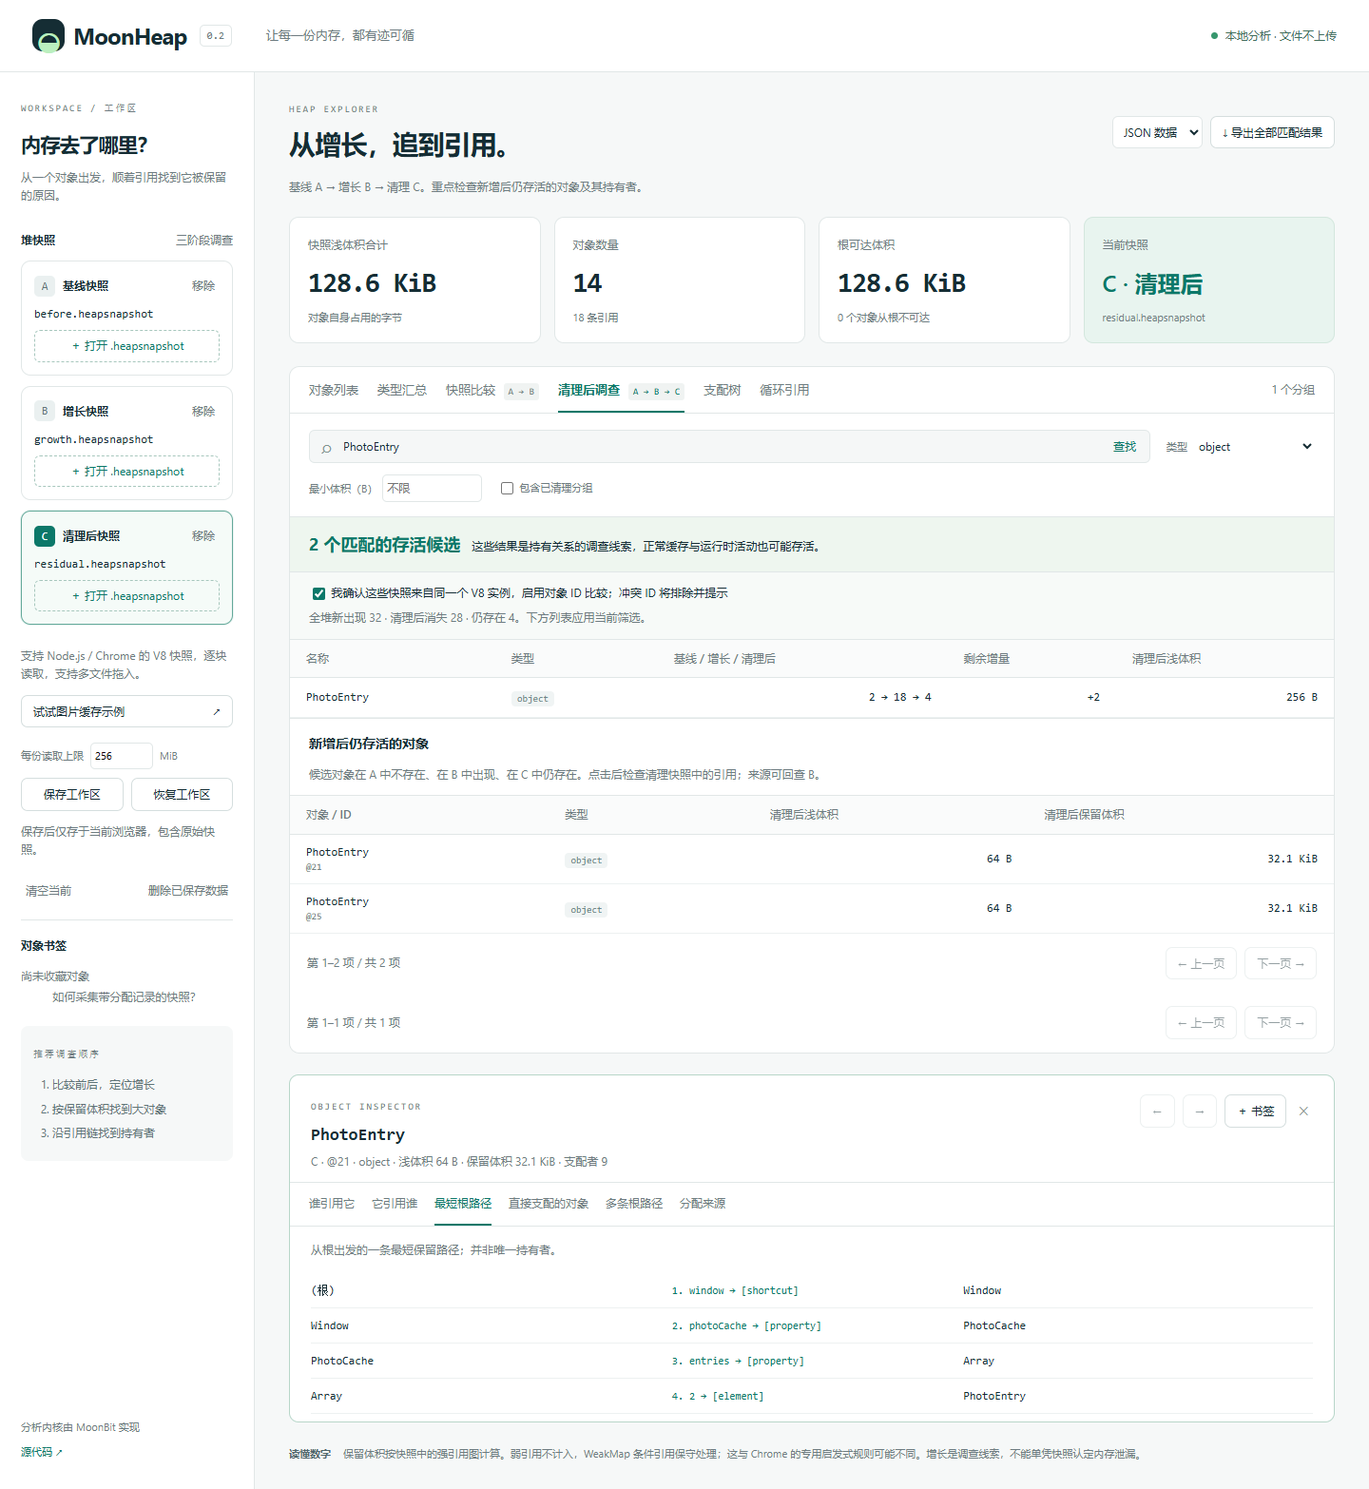
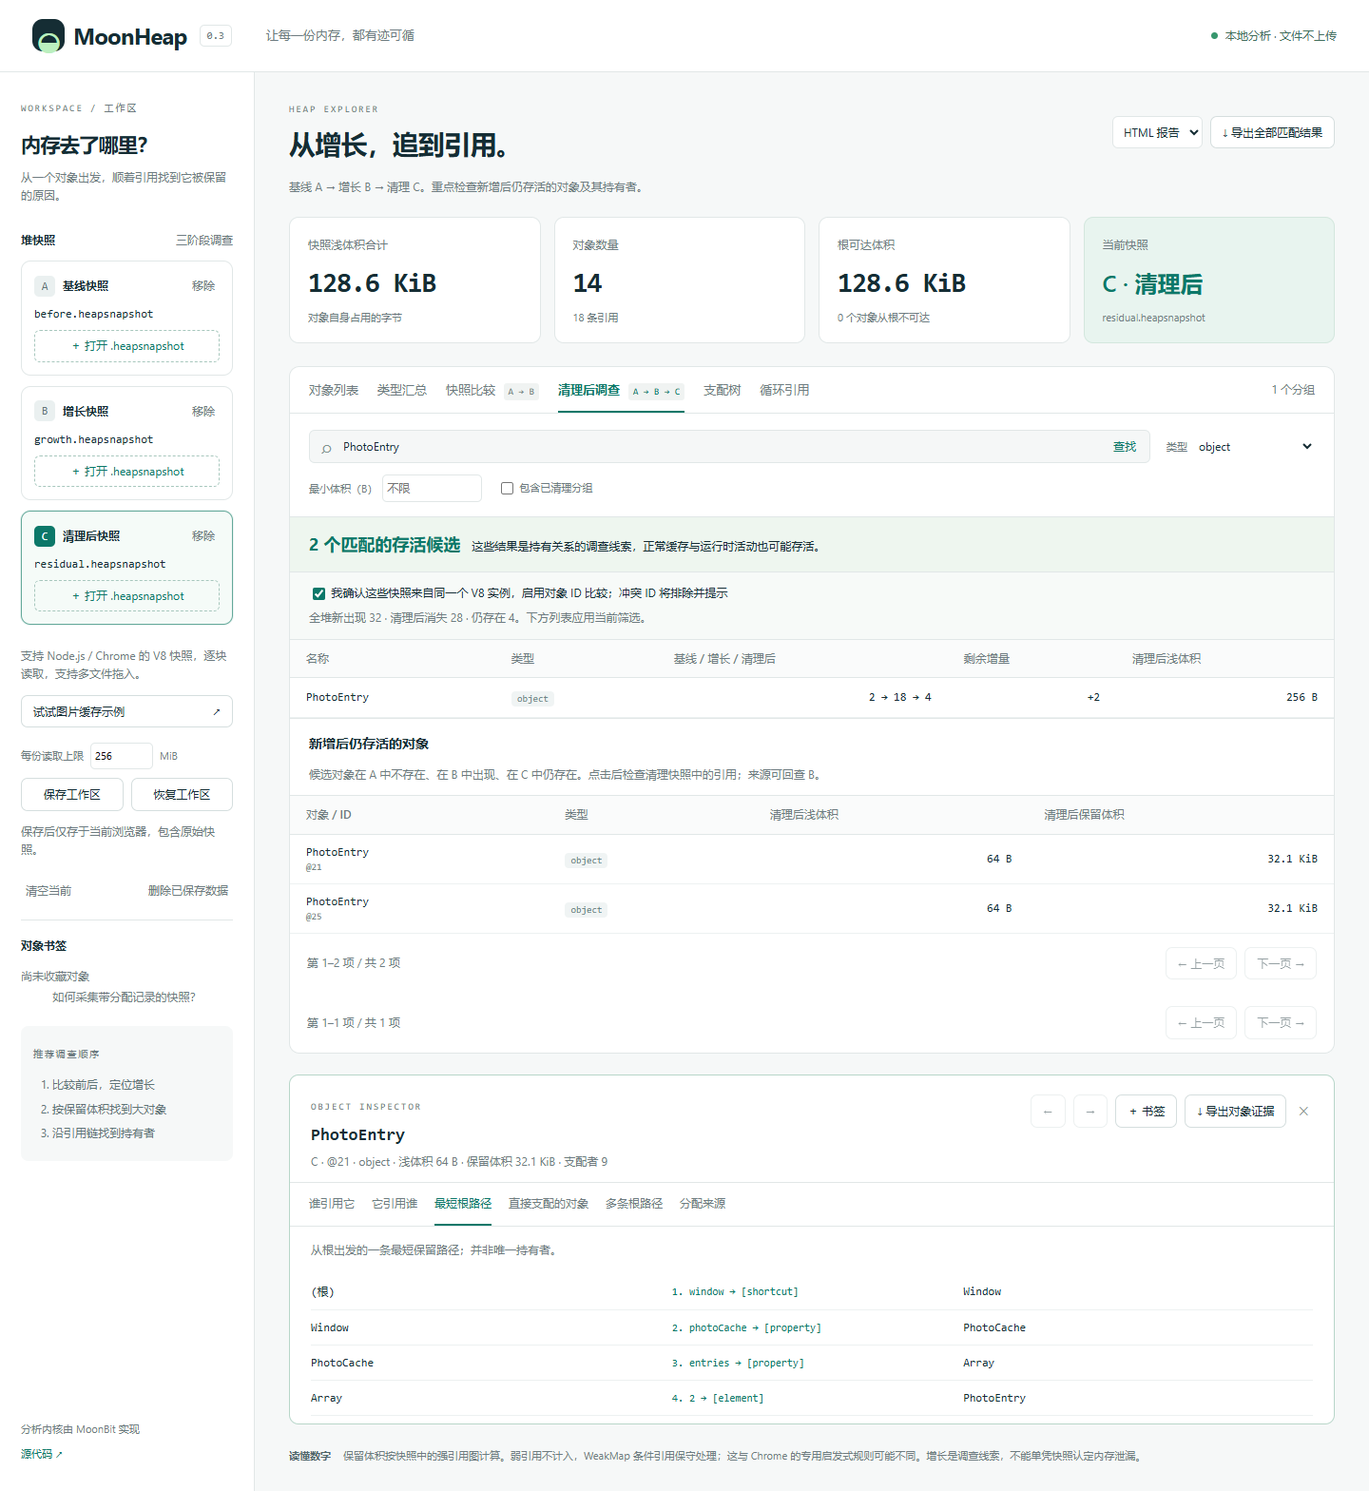
release: prepare 0.3.0 with acceptance evidence and isolated distribution checks

diff --git a/web/index.html b/web/index.html
@@ -10,7 +10,7 @@
 </head>
 <body>
 <header class="topbar">
-  <a class="brand" href="./"><span class="logo" aria-hidden="true">◒</span> MoonHeap <span class="version">0.2</span></a>
+  <a class="brand" href="./"><span class="logo" aria-hidden="true">◒</span> MoonHeap <span class="version">0.3</span></a>
   <span class="tagline">让每一份内存，都有迹可循</span>
   <span class="local"><span class="dot"></span> 本地分析 · 文件不上传</span>
 </header>

diff --git a/scripts/verify-distribution.py b/scripts/verify-distribution.py
@@ -1,0 +1,40 @@
+"""Verify the release archive in a fresh directory, using only packaged files."""
+import hashlib
+import json
+from pathlib import Path
+import subprocess
+import tempfile
+import zipfile
+
+root = Path(__file__).resolve().parent.parent
+version = json.loads((root / "package.json").read_text(encoding="utf-8"))["version"]
+archive = root / "dist" / f"MoonHeap-v{version}.zip"
+digest = hashlib.sha256(archive.read_bytes()).hexdigest()
+assert digest == archive.with_suffix(".zip.sha256").read_text().split()[0], "ZIP digest mismatch"
+with tempfile.TemporaryDirectory(prefix="moonheap-distribution-") as directory:
+    destination = Path(directory).resolve()
+    with zipfile.ZipFile(archive) as package:
+        for name in package.namelist():
+            assert (destination / name).resolve().is_relative_to(destination), "ZIP path escapes destination"
+        package.extractall(destination)
+    checkout = destination / f"MoonHeap-v{version}"
+
+    def cli(*args, code=0):
+        run = subprocess.run(["node", "bin/moonheap.mjs", *args], cwd=checkout, capture_output=True,
+                             text=True, encoding="utf-8", timeout=60)
+        assert run.returncode == code, run.stderr or run.stdout
+        return run.stdout
+
+    assert cli("--version").strip() == version
+    summary = json.loads(cli("summary", "examples/shared.heapsnapshot", "--json"))["data"]
+    assert summary["reachable_bytes"] == 60 and summary["nodes"] == 4
+    evidence = json.loads(cli("explain", "examples/shared.heapsnapshot", "--id", "7", "--json"))["data"]
+    assert evidence["complete"] and len(evidence["root_paths"]["paths"]) == 2
+    inputs = ["examples/before.heapsnapshot", "examples/growth.heapsnapshot", "examples/residual.heapsnapshot"]
+    args = ["check", *inputs, "--same-isolate", "--query", "PhotoEntry", "--kind", "object", "--json"]
+    assert json.loads(cli(*args, code=6))["data"]["matched_survivors"] == 2
+    assert json.loads(cli(*args, "--max-survivors", "2"))["data"]["passed"]
+    report = cli("report", "examples/shared.heapsnapshot", "--view", "explain", "--id", "7", "--format", "html")
+    assert "直接持有者" in report and "<script" not in report
+    assert (checkout / "web/engine.mjs").is_file()
+print(json.dumps({"version": version, "sha256": digest, "distribution": "passed"}))

diff --git a/docs/VALIDATION.md b/docs/VALIDATION.md
@@ -1,14 +1,14 @@
 # 验证与复现记录
 
-记录日期：2026-11-12，版本 0.2.0。所有真实快照来自专用测试进程。
+验收复核日期：2026-11-27，版本 0.3.0。所有真实快照来自专用测试进程；下方历史测量保留原始日期与结果。
 
 ## 环境与核心
 
 Windows x64，Intel Core i7-12700H；Node v24.18.0 与 v22.23.5。
-MoonBit 工具链为 moonc v0.10.20+65efd5b93。Linux GitHub Actions 还验证 native，
+MoonBit 工具链为 moonc v1.0.0-rc1+3c0520448（2026-11-26）。Linux GitHub Actions 还验证 native，
 以及 Node 22/24 的宿主和 Node 24 的浏览器流程。具体状态见 [CI](https://github.com/white-bear233/MoonHeap/actions/workflows/ci.yml)。
 
-**34 个 MoonBit 测试**覆盖元数据重排、UInt64 ID、畸形输入、增量读取、转义与整数跨块、
+**40 个 MoonBit 测试**覆盖元数据重排、UInt64 ID、畸形输入、增量读取、转义与整数跨块、
 资源限制、可达性、共享/弱/快捷/自引用、支配、分页、分配来源、多路径、循环、
 保留变化、三阶段调查、歧义身份排除与完整报告。
 
@@ -29,15 +29,21 @@ npm run build
 npm test
 ```
 
-本机 JS/Wasm GC 均为 34/34；Windows 未安装 MSVC，native 结果由 Linux CI 提供。
+本机 JS/Wasm GC 均为 40/40；Windows 未安装 MSVC，native 结果由 Linux CI 提供。
+
+0.3.0 新增请求深度边界、预算边界、身份歧义不能通过、超过 1000 个候选的全量判断、
+共享持有者证据、截断标记、不可达对象及 HTML 证据/支配树上下文测试。
+旧工具链构建会提示升级；CI 与发布流程从同一 `.moonbit-version` 读取固定版本。
 
 ## Node 集成与真实数据
 
-9 个 Node 集成测试覆盖 CLI、三会话桥接、错误退出码、非法 UTF-8、资源预算、
+15 个 Node 集成测试覆盖 CLI、三会话桥接、错误退出码、非法 UTF-8、资源预算、
 真实快照独立核对、本地服务、通用采集与来源校验、逐块文件和完整报告。
+新增清单错序/重复/缺失字段、实际读取哈希、输入文件与硬链接保护、预算退出码、对象证据完整性；
+输出目录缺失时自动建立，已存在的报告仍需 `--force`。
 Node 22/24 均执行完整测试。测试需要生成真实快照，机器压力会改变耗时和总体节点数。
 
-真实完全清理场景一次本机 Node 24 记录：
+真实完全清理场景一次本机 Node 24 历史记录（2026-11-12）：
 
 | 阶段 | 节点数 | self_size 合计 | MoonHeapMarker 实例 | 标记对象浅体积 |
 |---|---:|---:|---:|---:|
@@ -77,6 +83,7 @@ node --test tests/workflow.test.mjs
 - 三阶段 2→18→4、2 个新增存活条目、在 C 中检查持有路径。
 - 入边/出边、最短与多条根路径、分配信息与缺失提示。
 - 支配树展开、祖先导航、体积分布图、循环组与成员。
+- 对象证据 HTML 下载、持有者/根路径/来源分节、支配树 JSON 保留当前对象及祖先。
 - 过滤、精确大 ID、42 行完整导出（页面只有 25 行）。
 - 书签与对象前进/后退，保存工作区、刷新、恢复文件/筛选/书签、删除保存。
 - 对象名称含 HTML 时仅显示文本；文件替换清除来源声明。
@@ -105,7 +112,7 @@ npx --yes --package @playwright/cli@0.1.24 playwright-cli -s=moonheap close
 node scripts/benchmark.mjs
 ```
 
-本机一次记录：
+本机历史记录（2026-11-12，0.2.0；不作为 0.3.0 性能承诺）：
 
 | 图 | 节点 / 边 | 输入字节 | 打开并分析 | 排序查询 | 峰值 RSS |
 |---|---|---:|---:|---:|---:|
@@ -121,7 +128,8 @@ node scripts/benchmark.mjs
 
 ## 发布复核
 
-moon publish --dry-run 已完成打包、解包和重新检查，注册表返回 202 Accepted。
-正式包消费者和 GitHub 分发包采用独立目录验证：从 Mooncakes 下载，
-运行新 Decoder/Inspector 接口；解压发行 ZIP 后直接运行预编译 CLI，不依赖原仓库编译路径。
-发布状态与资产见 [v0.2.0](https://github.com/white-bear233/MoonHeap/releases/tag/v0.2.0)。
+0.3.0 的 `moon publish --dry-run` 已完成打包、解包与重新检查，注册表返回 202 Accepted。
+发行流程中的 `scripts/verify-distribution.py` 会核对 SHA-256 并解压至新目录，
+验证 CLI 版本、共享对象引用、证据报告、预算通过及超限退出码，不读取原仓库构建目录。
+正式包安装命令为 `moon add white-bear233/moonheap@0.3.0`。
+发布状态与资产见 [v0.3.0](https://github.com/white-bear233/MoonHeap/releases/tag/v0.3.0)。

diff --git a/docs/ACCEPTANCE.md b/docs/ACCEPTANCE.md
@@ -1,0 +1,60 @@
+# 2026 年 11 月验收索引
+
+维护日期：2026-11-27；本轮版本：0.3.0。
+按照赛事通知，验收依据为 **2026-11-30 23:59（北京时间）的 GitHub 仓库快照**。
+本项目初审已通过；此文索引代码、复现命令和证据，供验收时查看。
+
+## 九项要求对应材料
+
+| 要求 | 本项目材料 |
+|---|---|
+| MoonBit 为主要语言，moonc ≥ 1.0.0-rc1 | 解析、引用图、支配关系、比较、预算判断、证据汇总与报告均在根目录 `.mbt`；[.moonbit-version](../.moonbit-version) 固定 `1.0.0-rc1+3c0520448` |
+| 公开仓库与清晰提交 | [GitHub](https://github.com/white-bear233/MoonHeap)、[逐项提交记录](https://github.com/white-bear233/MoonHeap/commits/main) |
+| 结构清晰、核心功能可用 | [核心接口](../pkg.generated.mbti)、[语义范围](SEMANTICS.md)、[API](API.md)；Node/浏览器共用同一 MoonBit 引擎 |
+| README 可复现 | [安装、三分钟体验、真实采集、回归检查、对象证据](../README.md) |
+| CI 覆盖检查、构建、测试 | [CI 配置](../.github/workflows/ci.yml)：JS、Wasm GC、native 分别执行 check/build/test；Node 22/24 集成与真实浏览器 |
+| 至少一个运行样例 | [MoonBit 消费者](../cmd/main/main.mbt)、[Node 业务采集场景](../examples/cache-scenario.mjs)、仓库内五份合成快照 |
+| 核心路径完整测试 | 40 个 MoonBit 测试、其中包含 150 个随机图独立核对；15 个 Node 集成测试；[验证与复现](VALIDATION.md) |
+| Mooncakes 发布 | [white-bear233/moonheap](https://mooncakes.io/docs/white-bear233/moonheap)，本轮包版本 `0.3.0` |
+| OSI 开源许可证 | [Apache-2.0](../LICENSE)；[原创实现、格式和算法参考说明](../ACKNOWLEDGEMENTS.md) |
+
+## 本轮实质维护
+
+1. 适配 MoonBit 1.0.0-rc1，移除弃用 JSON 参数而保留深度限制，固定 CI/发布工具链。
+2. 复现并修复错序清单、重复输入、无效清单、报告覆盖输入等问题；为实际解析字节校验哈希。
+3. 新增 MoonBit 清理预算与 CLI `check`，判断全量匹配对象，不受分页影响，明确区分通过、超限和身份不确定。
+4. 新增对象证据查询及网页一键 HTML 导出；修复支配树报告上下文丢失。
+5. 同步文档、版本与发行流程，新增独立解压运行发行包的检查脚本。
+
+## 评审快速复现
+
+安装 Node.js 22+、MoonBit 1.0.0-rc1 或更新版本后，在仓库根目录运行：
+
+```sh
+moonc -v
+moon check --target js --deny-warn
+moon build --target js --deny-warn
+moon test --target js --deny-warn
+moon test --target wasm-gc --deny-warn
+moon run cmd/main --target js
+npm run build
+npm test
+npm run demo
+```
+
+网页加载缓存示例，确认同一 V8 实例，打开「清理后调查」，按 `PhotoEntry` / `object` 筛选：
+2 个新增对象仍存活；点击其中一个，检查根路径，再导出对象证据。
+
+```sh
+# 完全清理，退出码 0
+node bin/moonheap.mjs check examples/before.heapsnapshot examples/growth.heapsnapshot examples/cleanup.heapsnapshot --same-isolate --query PhotoEntry --kind object --json
+# 残留 2 个对象，默认零残留预算，退出码 6（预期结果）
+node bin/moonheap.mjs check examples/before.heapsnapshot examples/growth.heapsnapshot examples/residual.heapsnapshot --same-isolate --query PhotoEntry --kind object --json
+# 放宽到 2 个，边界值通过，退出码 0
+node bin/moonheap.mjs check examples/before.heapsnapshot examples/growth.heapsnapshot examples/residual.heapsnapshot --same-isolate --query PhotoEntry --kind object --max-survivors 2 --json
+node bin/moonheap.mjs report examples/shared.heapsnapshot --view explain --id 7 --format html --output work/object.html
+```
+
+真实场景完整采集与分析命令见 README；测试会分别核对完全清理的 `0→64→0` 和残留的 `0→16→1`。
+Linux native 需系统 C 编译器，由 CI 实际执行；Windows 未安装 C 编译器时先运行 JS/Wasm GC。
+输入范围是 V8 堆快照，保留体积采用公开图策略；不把预算通过、对象残留或循环引用自动解释为泄漏结论。

diff --git a/docs/RELEASE.md b/docs/RELEASE.md
@@ -1,38 +1,37 @@
-MoonHeap 0.2.0：完整的离线内存调查流程。
-
-从三阶段采集、逐块导入，到存活对象筛选、持有路径、分配来源和完整报告，
-MoonBit 核心、Node CLI 与本地网页已接通。
+MoonHeap 0.3.0：MoonBit 1.0 验收维护与可自动运行的内存回归检查。
 
 本版新增：
-- 真正逐块解析数值数组，进度与可配置输入预算。
-- 分配调用栈、对象位置、多条根路径、循环组、支配树和体积分布图。
-- 保留体积差分与独立分页；基线/增长/清理后三快照调查。
-- 自定义 Node 场景采集，分配跟踪、SHA-256 文件来源记录。
-- 全部匹配行的 JSON、CSV、自包含 HTML 报告。
-- 网页书签、历史导航、保存/恢复工作区、多文件导入和取消恢复。
 
-下载 MoonHeap-v0.2.0.zip，安装 Node.js 22+，解压后进入目录运行：
+- MoonBit `1.0.0-rc1+3c0520448`；统一固定 CI 与发布工具链，明确执行检查、构建、测试。
+- `check`：按名称/类型检查清理后残留对象的数量或浅体积，超限退出码 6，身份不确定退出码 4。
+- `explain`：一次汇总对象、持有者、根路径、支配祖先和分配来源，支持 JSON 与 HTML。
+- 网页对象详情中的「导出对象证据」按钮，保留分配来源回查信息与搜索截断标记。
+
+本版修复：
+
+- 采集清单接受错序、重复阶段、缺失运行 ID 的问题；来源哈希现在绑定实际解析的字节。
+- 报告覆盖输入快照及其链接别名的问题；报告父目录不存在时自动创建。
+- 支配树导出丢失选中对象和祖先上下文的问题。
+- 新版 JSON 解析器弃用参数导致严格编译失败的问题，原深度预算仍然保留。
+
+下载 `MoonHeap-v0.3.0.zip`，安装 Node.js 22+，解压后进入目录运行：
 
 ```sh
 node scripts/serve.mjs
 ```
 
-打开 http://127.0.0.1:4173，点击“加载缓存增长示例”。
-包内含源代码和预编译引擎；使用界面无需安装 MoonBit。CLI 示例：
+打开 http://127.0.0.1:4173，加载缓存增长示例。发行包包含源码和预编译引擎，运行界面不需要 MoonBit。
 
 ```sh
-node bin/moonheap.mjs capture --scenario examples/cache-scenario.mjs --output-dir work/my-capture --iterations 2 --allocation-traces
-node bin/moonheap.mjs summary examples/growth.heapsnapshot
+node bin/moonheap.mjs explain examples/shared.heapsnapshot --id 7 --json
+node bin/moonheap.mjs check examples/before.heapsnapshot examples/growth.heapsnapshot examples/cleanup.heapsnapshot --same-isolate --query PhotoEntry --kind object --json
+moon add white-bear233/moonheap@0.3.0
 ```
 
-Mooncakes：moon add white-bear233/moonheap@0.2.0。
+验证覆盖 40 个 MoonBit 测试、150 个随机图独立核对、15 个 Node 集成测试、
+Node 22/24、JS/Wasm GC/Linux native、真实清理与残留、65 MiB 逐块输入以及桌面/手机浏览器。
+发布流程会解压 ZIP 到独立目录，运行随包 CLI，检查精确 ID、对象证据和预算通过/失败分支。
 
-验证包含 34 个核心测试、150 个随机图独立核对、Node 22/24 集成、
-真实 0→64→0 清理与 0→16→1 残留场景、65 MiB 逐块输入和浏览器流程。
-JS、Wasm GC、Linux native 共享同一核心。
-
-每份输入默认 256 MiB，可配置 1–1024 MiB；仍受节点、边、元数据和计算预算限制。
-WeakMap 条件引用保守计算；V8 未采集到的分配信息会明确显示缺失。
-保留体积不是 RSS，存活不是自动泄漏结论。完整范围见 README 和 docs/SEMANTICS.md。
-
-Apache-2.0。附 SHA-256 校验文件。
+每份快照默认上限 256 MiB，可调 1–1024 MiB；图仍在内存中分析。
+WeakMap 条件引用采用公开的保守策略。预算通过仅表示所选对象符合阈值，不表示全程序无泄漏。
+完整验收入口见 `docs/ACCEPTANCE.md`；Apache-2.0，附 ZIP 的 SHA-256 校验文件。

diff --git a/docs/SEMANTICS.md b/docs/SEMANTICS.md
@@ -57,6 +57,19 @@ capture 在一个专用 Node 主 isolate 中运行场景模块。setup 后采集
 
 capture.json 记录运行 ID、Node/V8 版本、场景、分配跟踪选项、文件大小及 SHA-256。--manifest 检查文件与清单相符后启用身份比较。清单不是签名证书，无法证明不可信第三方提供的快照来源；它保证记录与文件的一致性。报告保留来源参数以便复查。
 
+0.3.0 起，清单必须包含唯一的 before/growth/cleanup 标签和文件路径、非空运行 ID、合法大小和哈希。
+传入的快照必须按阶段递增排列且不重复；哈希针对送入解析器的实际字节流计算，避免先检查文件、再读取不同内容。
+报告输出即使带 `--force` 也不得指向输入快照或清单，包括同文件的链接别名；缺失的输出父目录会自动建立。
+
+## 回归预算与对象证据
+
+`check_cleanup`/CLI `check` 只在确认同 isolate 时工作；统计所有符合名称/类型筛选的新增存活对象，包含不可达记录，不受分页影响。
+字节预算累加对象的浅体积，不累加可能重叠的 retained。只要存在排除 ID，结果为 inconclusive，不能通过预算检查。
+默认要求零新增存活；只指定一个阈值时另一项不限，同时指定时两项均须满足。退出码 6 表示超过用户设定预算，并不自动认定泄漏。
+
+`explain` 汇总单对象的直接持有引用、根路径、支配祖先和分配来源。直接引用默认最多 100 条，路径默认 5 条、64 层；
+结果分别标记是否穷尽，JSON 报告顶层 complete 也反映这两项是否完整。分配信息缺失通过 available 单独说明，不伪造调用栈。
+
 ## 资源边界
 
 | 限制 | 默认值 |

diff --git a/CHANGELOG.md b/CHANGELOG.md
@@ -1,5 +1,18 @@
 # 更新记录
 
+## 0.3.0 — 2026-11-27
+
+- 升级到 MoonBit `1.0.0-rc1+3c0520448`，通过 `.moonbit-version` 统一固定 CI/发布版本；明确执行 check、build、test，构建时拒绝旧编译器。
+- 适配 JSON 解析器 API 变更，同时保留独立的请求/元数据深度预算。
+- 修复采集清单接受错序、重复文件、无效阶段或运行 ID 的问题；哈希与实际解析的字节绑定。
+- 修复报告输出配合 `--force` 能覆盖输入快照的问题；同文件、符号链接和硬链接别名均检查。
+- 新增 MoonBit `check_cleanup` 与 CLI `check`：按业务对象名/类型检查清理后数量及浅体积预算，超限退出码 6，身份不确定退出码 4。
+- 新增 `explain` 与一键 HTML 对象证据报告，汇总直接持有者、根路径、支配祖先和分配来源，并明确搜索截断。
+- 修复网页和 HTML 支配树报告丢失选中对象与祖先上下文的问题。
+- 40 个核心测试、15 个 Node 集成测试、桌面/手机浏览器全流程；增加发行 ZIP 独立解压检查。
+
+JSON 信封和常规报告仍兼容 `api_version=1` / `moonheap-report-v2`。`explain` 报告的 `complete` 反映内部路径及引用是否穷尽；预算通过不表示全程序无泄漏。
+
 ## 0.2.0 — 2026-11-12
 
 完整调查流程：

diff --git a/docs/DEMO.md b/docs/DEMO.md
@@ -54,3 +54,9 @@ CSV 供表格查看，JSON 供程序处理，超过明确预算会报错。
 展示 GitHub CI、Mooncakes 包、命令行和预编译发行版。核心算法在 MoonBit，
 CLI/网页复用同一引擎。说明默认每份 256 MiB、可配置预算、WeakMap 保守语义，
 不把保留体积当 RSS，也不输出自动泄漏判决。
+
+## 0.3.0 新增演示
+
+对象详情点击「导出对象证据」，检查持有者、根路径、支配祖先与分配来源，以及搜索截断提示。
+命令行 `check` 对完整清理样例返回 0，对 residual 样例的 PhotoEntry 默认返回 6，
+增加 `--max-survivors 2` 后返回 0。完整命令与退出码见 [ACCEPTANCE.md](ACCEPTANCE.md)。

diff --git a/docs/COMPLETENESS.md b/docs/COMPLETENESS.md
@@ -16,3 +16,11 @@ v0.1 已实现基本快照分析，但仍缺少大文件逐块解析、分配来
 
 “完整”按上述闭环验收，不以占位按钮、固定演示数据或单独底层函数算完成。
 对 V8 没有提供的信息，不伪造值；对于有预算的搜索，明确说明搜索是否穷尽。
+
+## 0.3.0 验收维护
+
+- [x] MoonBit 1.0.0-rc1 与明确的三后端检查、构建、测试。
+- [x] 采集清单阶段顺序、实际读取哈希、输入文件保护。
+- [x] 全量清理预算、明确退出码、身份不确定时不通过。
+- [x] 对象证据 JSON/HTML、网页一键导出和支配树上下文。
+- [x] 真实浏览器验收与独立发行包验证脚本。
